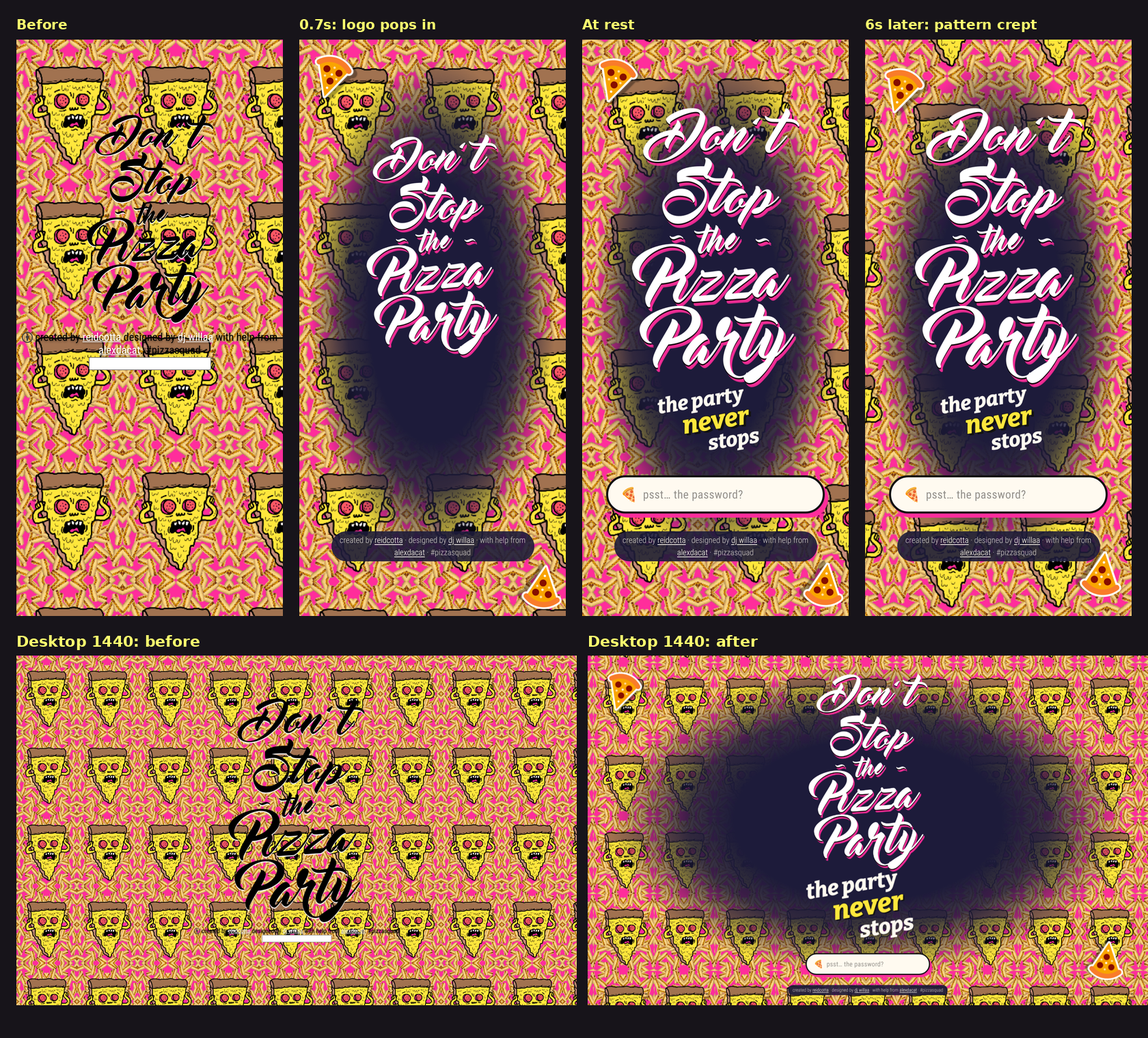
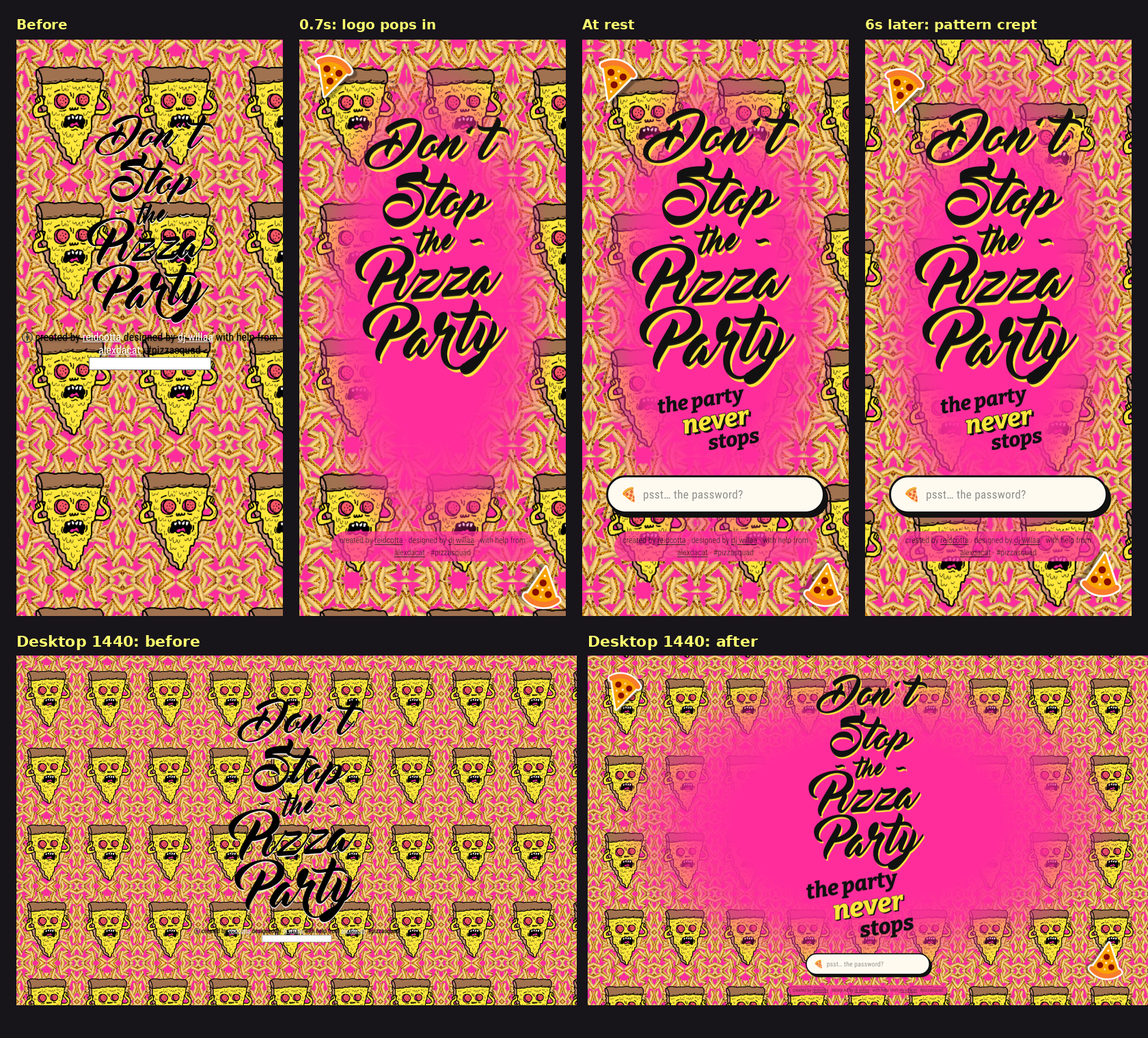
Hero: back to hot pink, with every colour a palette variable
The hot-pink spotlight returns (black logo, yellow edge). Every colour in
the hero is now one of eight variables at the top of home.css (--spot,
--logo, --logo-edge, --words, --hi, --hi-edge, --accent), and the logo is
painted through its own shape with a CSS mask, so it can take any colour,
not just black or inverted. Eight candidate palettes are rendered in
.github/pr-screenshots/hero-redesign/palettes-*.png (values in
palettes.json) to choose from.

Claude-Session: https://claude.ai/code/session_01BUtFxh6bhKj94LRtZvhsyK

diff --git a/files/home.css b/files/home.css
@@ -5,13 +5,15 @@
   --yellow: #ffe73c;
   --ink: #111;
   --cream: #fffaf0;
-  /* the spotlight behind the words: the game's night sky (game black is
-     #17141a / 23, 20, 26 if you want it darker) */
-  --spot: #1d1b3a;
-  --spot-rgb: 29, 27, 58;
-  --words: var(--cream);
-  --logo-filter: invert(1) drop-shadow(3px 4px 0 rgba(255, 45, 155, 0.95));
-  --accent: var(--pink);
+  /* the palette: one set of these is the whole colour scheme */
+  --spot: #ff2d9b;              /* the spotlight behind the words */
+  --spot-rgb: 255, 45, 155;     /* same colour, for the spotlight's fade */
+  --logo: #111;                 /* the script logo */
+  --logo-edge: #ffe73c;         /* the logo's offset edge */
+  --words: #111;                /* "the party" / "stops", the credits */
+  --hi: #ffe73c;                /* "never" */
+  --hi-edge: #111;              /* "never"'s outline and shadow */
+  --accent: #111;               /* the pill's offset shadow */
   --spring: cubic-bezier(0.34, 1.56, 0.64, 1);
 }
 
@@ -42,7 +44,7 @@ body {
   --py: 0;
 }
 
-/* ---- the old melting-pizza wallpaper, creeping behind a dark spotlight ---- */
+/* ---- the old melting-pizza wallpaper, creeping behind a spotlight ---- */
 .dsp-doodles { position: absolute; inset: 0; pointer-events: none; overflow: hidden; }
 .dsp-wallpaper {
   position: absolute;
@@ -89,10 +91,14 @@ body {
   flex-direction: column;
   align-items: center;
 }
+/* the logo is painted through its own shape (a mask), so it can be any colour;
+   the invisible img keeps its size and its alt text */
 .dsp-logo {
+  position: relative;
   margin: 0;
   background: none;
   line-height: 0;
+  filter: drop-shadow(3px 4px 0 var(--logo-edge));
   animation: dsp-pop 0.9s var(--spring) 0.15s both;
 }
 .dsp-logo img {
@@ -101,7 +107,15 @@ body {
   height: min(48vh, 420px);
   max-width: 70vw;
   object-fit: contain;
-  filter: var(--logo-filter);
+  opacity: 0;
+}
+.dsp-logo::after {
+  content: "";
+  position: absolute;
+  inset: 0;
+  background: var(--logo);
+  -webkit-mask: url(/files/dontstop.png) center / contain no-repeat;
+  mask: url(/files/dontstop.png) center / contain no-repeat;
 }
 .dsp-tag {
   display: flex;
@@ -115,7 +129,7 @@ body {
 }
 .dsp-tag span { display: block; font: inherit; animation: dsp-rise 0.7s var(--spring) both; }
 .dsp-tag span:nth-child(1) { animation-delay: 0.75s; translate: -0.6em 0; }
-.dsp-tag span:nth-child(2) { animation-delay: 0.9s; font-size: 1.25em; color: var(--yellow); -webkit-text-stroke: 1.5px var(--ink); paint-order: stroke fill; text-shadow: 3px 3px 0 var(--ink); }
+.dsp-tag span:nth-child(2) { animation-delay: 0.9s; font-size: 1.25em; color: var(--hi); -webkit-text-stroke: 1.5px var(--hi-edge); paint-order: stroke fill; text-shadow: 3px 3px 0 var(--hi-edge); }
 .dsp-tag span:nth-child(3) { animation-delay: 1.05s; translate: 0.7em 0; }
 
 @keyframes dsp-pop {
@@ -170,7 +184,8 @@ body {
   background: rgba(var(--spot-rgb), 0.9);
   max-width: min(34em, 70vw);
   margin: 26px 0 0;
-  color: rgba(255, 250, 240, 0.75);
+  color: var(--words);
+  opacity: 0.85;
   font: 300 12px/1.5 "Roboto Condensed", helvetica, sans-serif;
   text-align: center;
 }

diff --git a/index.html b/index.html
@@ -4,11 +4,11 @@ description: Where the pizza party dont stop!
 no_footer: true
 ---
 {% comment %} Homepage hero, after the pizzaandtechno.com hero: the old melting-pizza
-   wallpaper creeping behind a night-sky spotlight, a logo that pops in, a tilted stacked
+   wallpaper creeping behind a spotlight, a logo that pops in, a tilted stacked
    tagline, and the secret word box as a fat pill. The old site lives on behind the
    word "nostalgia". {% endcomment %}
 <link href="https://fonts.googleapis.com/css2?family=Bitter:ital,wght@1,800&display=swap" rel="stylesheet">
-<link rel="stylesheet" href="/files/home.css?v=20261104c">
+<link rel="stylesheet" href="/files/home.css?v=20261104d">
 
 <main class="dsp-hero">
   <div class="dsp-doodles" aria-hidden="true">
